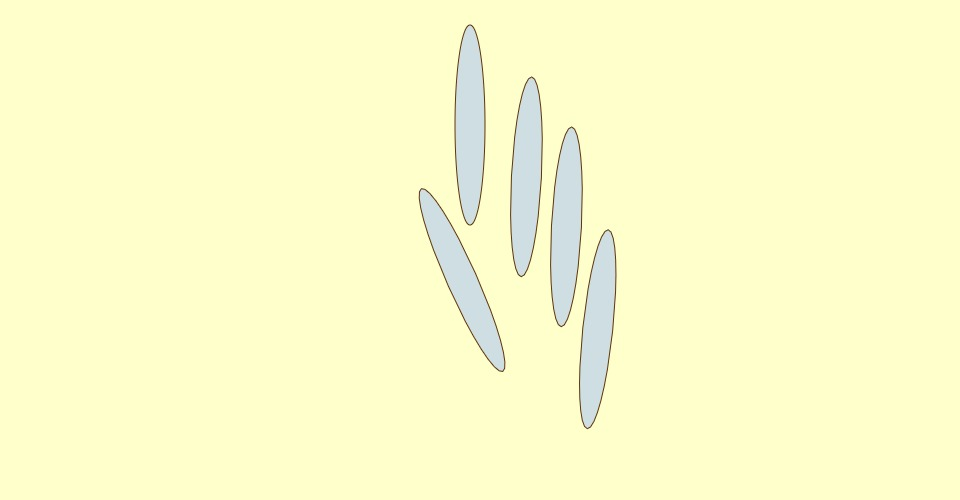
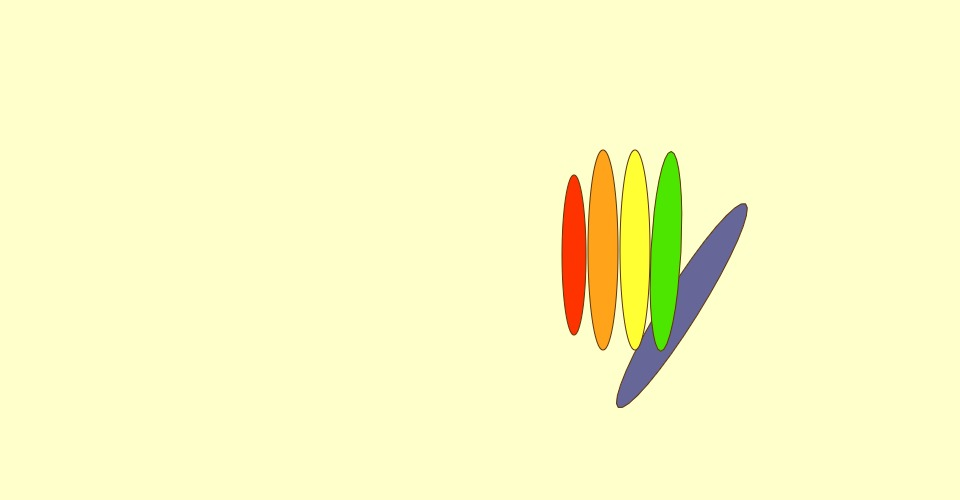
edited hand readme

Changed region(s): [[0.4375, 0.03, 0.7812, 0.87]]

diff --git a/P2/hand/.purview_helper.js b/P2/hand/.purview_helper.js
@@ -1,0 +1,67 @@
+// note: this file is poorly named - it can generally be ignored.
+
+// helper functions below for supporting blocks/purview
+
+function saveBlocksImages(doZoom) {
+  if(doZoom == null) {
+    doZoom = false;
+  }
+
+  // generate 960x500 preview.jpg of entire canvas
+  // TODO: should this be recycled?
+  var offscreenCanvas = document.createElement('canvas');
+  offscreenCanvas.width = 960;
+  offscreenCanvas.height = 500;
+  var context = offscreenCanvas.getContext('2d');
+  // background is flat white
+  context.fillStyle="#FFFFFF";
+  context.fillRect(0, 0, 960, 500);
+  context.drawImage(this.canvas, 0, 0, 960, 500);
+  // save to browser
+  var downloadMime = 'image/octet-stream';
+  var imageData = offscreenCanvas.toDataURL('image/jpeg');
+  imageData = imageData.replace('image/jpeg', downloadMime);
+  p5.prototype.downloadFile(imageData, 'preview.jpg', 'jpg');
+
+  // generate 230x120 thumbnail.png centered on mouse
+  offscreenCanvas.width = 230;
+  offscreenCanvas.height = 120;
+
+  // background is flat white  
+  context = offscreenCanvas.getContext('2d');
+  context.fillStyle="#FFFFFF";
+  context.fillRect(0, 0, 230, 120);
+
+  if(doZoom) {
+    // pixelDensity does the right thing on retina displays
+    var pd = this._pixelDensity;
+    var sx = pd * mouseX - pd * 230/2;
+    var sy = pd * mouseY - pd * 120/2;
+    var sw = pd * 230;
+    var sh = pd * 120;
+    // bounds checking - just displace if necessary
+    if (sx < 0) {
+      sx = 0;
+    }
+    if (sx > this.canvas.width - sw) {
+      sx = this.canvas.width - sw;
+    }
+    if (sy < 0) {
+      sy = 0;
+    }
+    if (sy > this.canvas.height - sh) {
+      sy = this.canvas.height - sh;
+    }
+    // save to browser
+    context.drawImage(this.canvas, sx, sy, sw, sh, 0, 0, 230, 120);
+  }
+  else {
+    // now scaledown
+    var full_width = this.canvas.width;
+    var full_height = this.canvas.height;
+    context.drawImage(this.canvas, 0, 0, full_width, full_height, 0, 0, 230, 120);
+  }
+  imageData = offscreenCanvas.toDataURL('image/png');
+  imageData = imageData.replace('image/png', downloadMime);
+  p5.prototype.downloadFile(imageData, 'thumbnail.png', 'png');
+}

diff --git a/P2/hand/README.md b/P2/hand/README.md
@@ -1,5 +1,6 @@
 ## PS2 MDDN 342 2016
 Phoebe Zeller 
 300309856
-This is the very very base of my idea. I hate fonts. I want to be able to make a hand out of simple shapes in order to show american finger spelling as the user types. 
-I will have to refine the controls of this editor because at the moment it is frustating to make anything lifelike out of it, and the current symbols shown are very loose repesentations of the shapes needed.
+Made some really good behind the scenes progression today. Fingers are now colour coded and are drawn with a bunch of new veriables and this is also updated in the JSON file.
+still a long way to come. 
+This is the image im working off to create the hand shapes https://upload.wikimedia.org/wikipedia/en/6/6f/Aslfingerspellalpha.png
